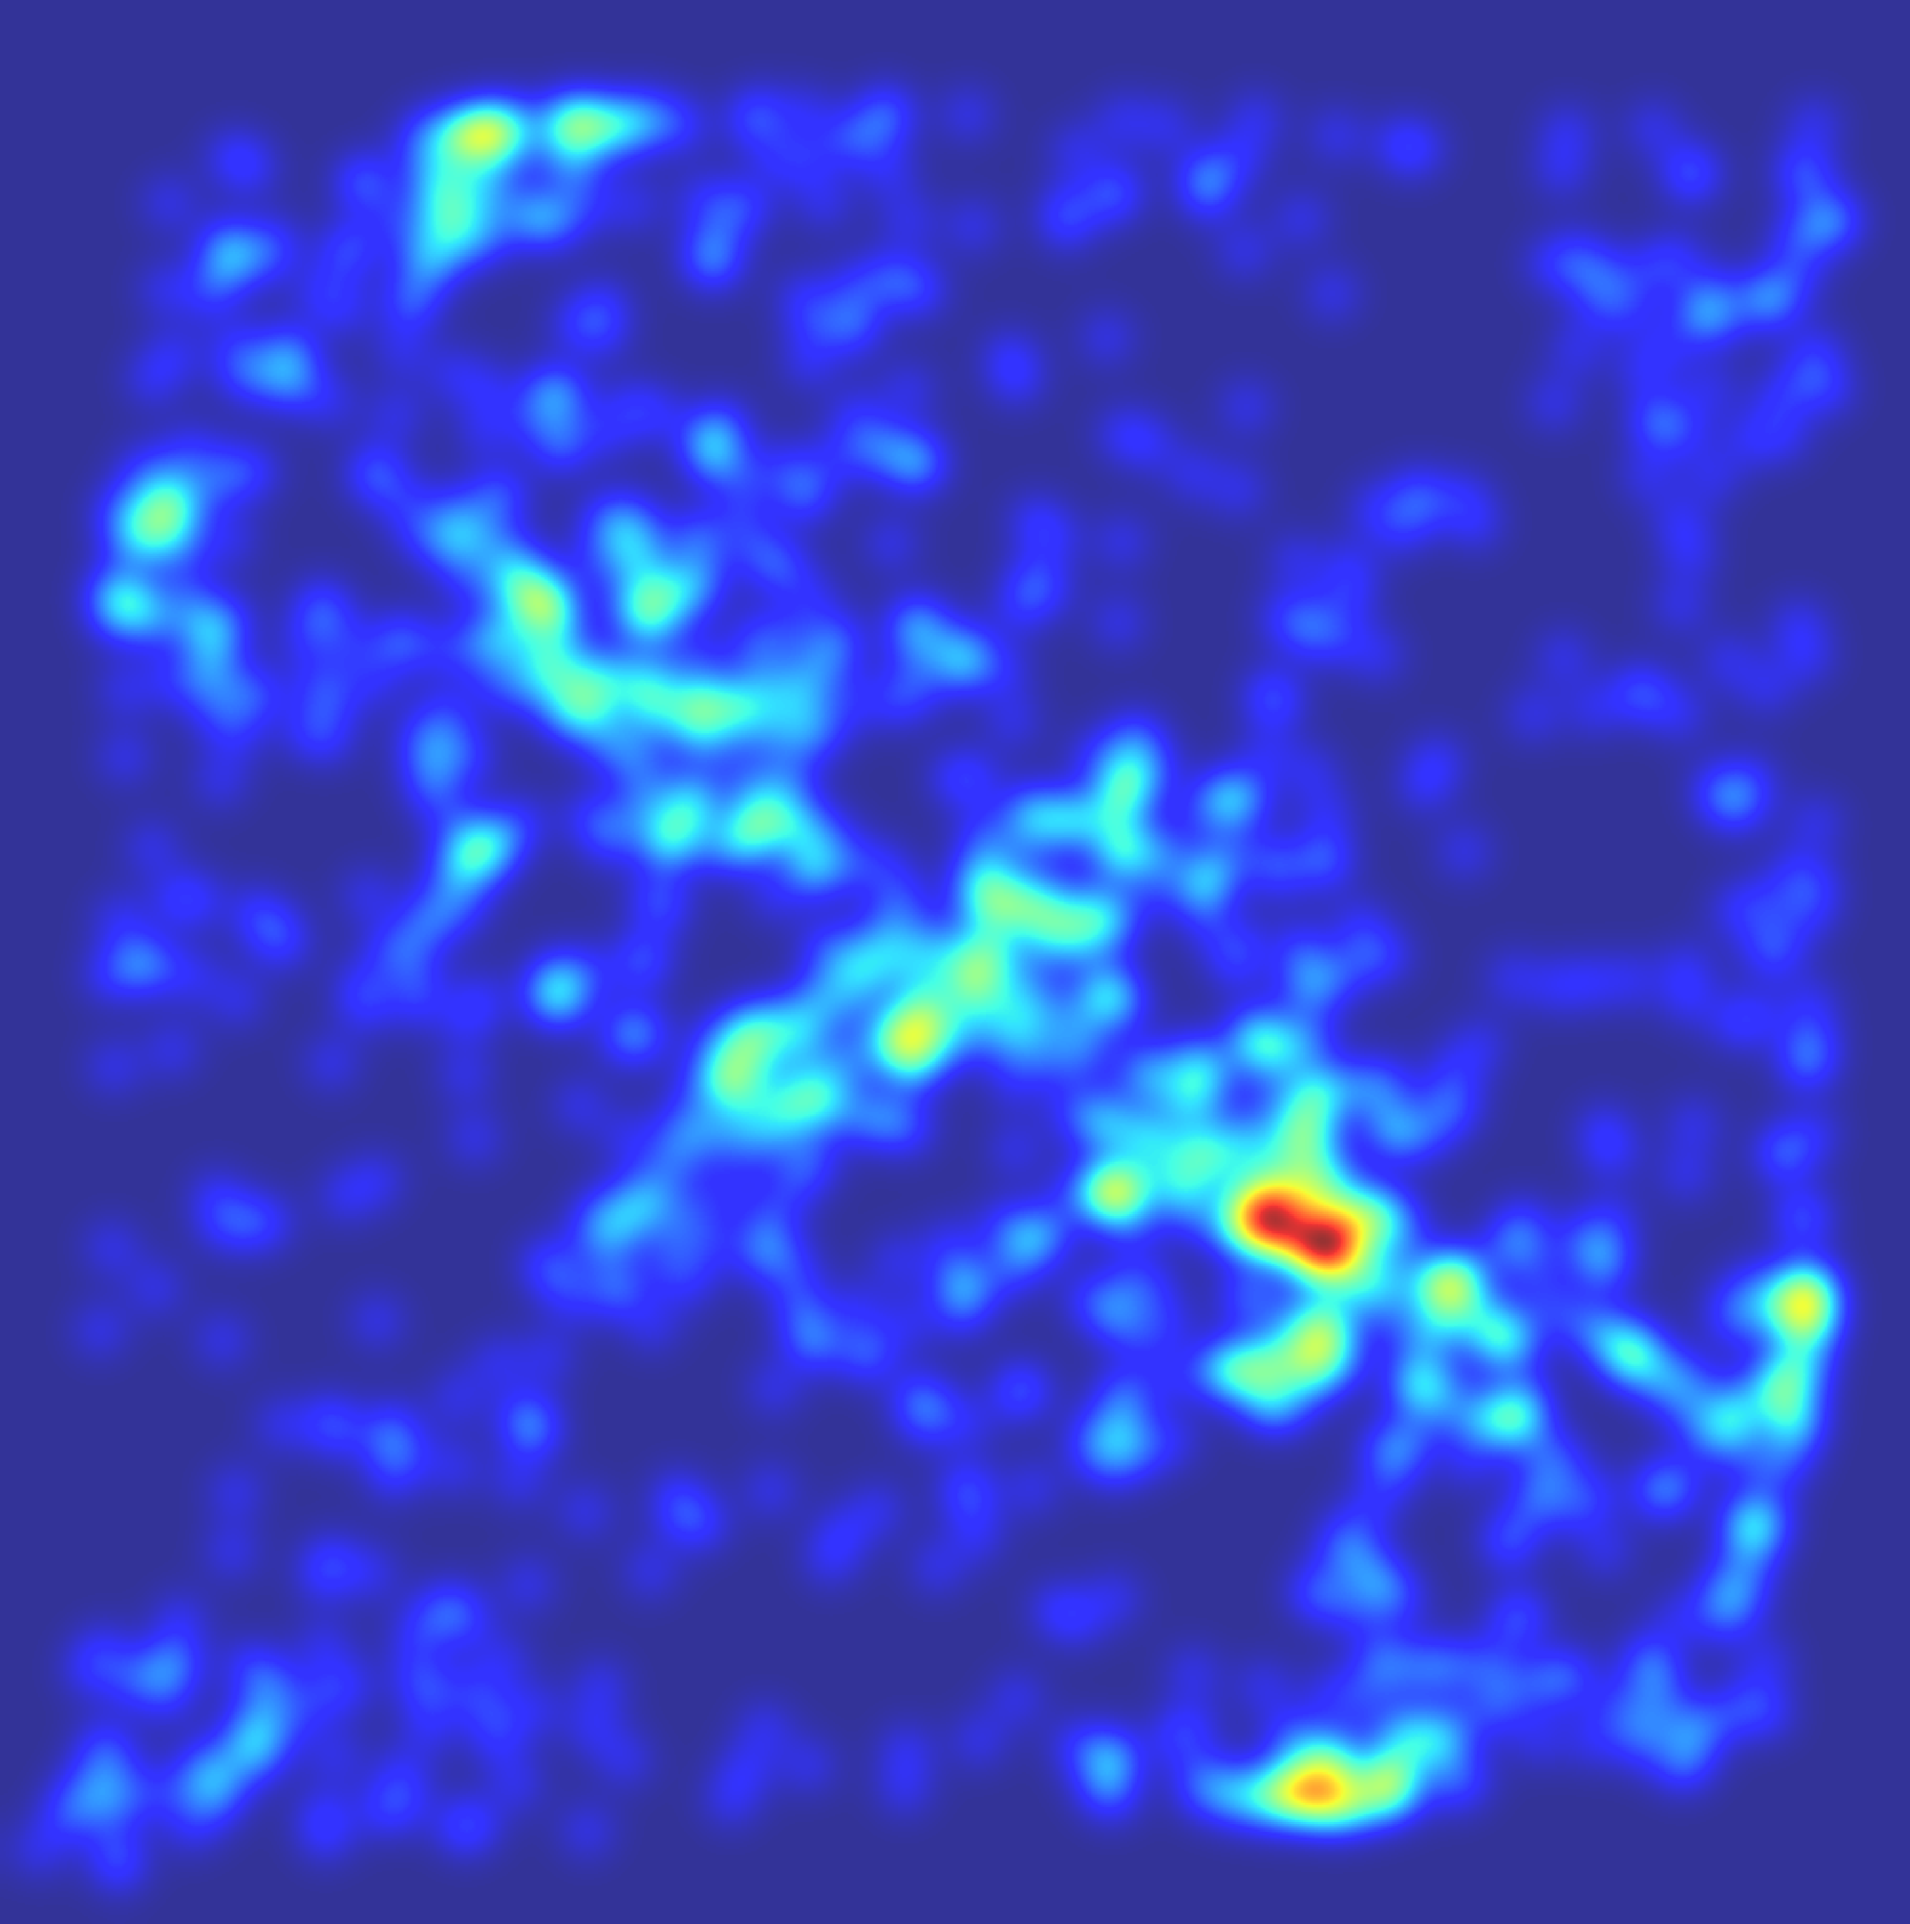
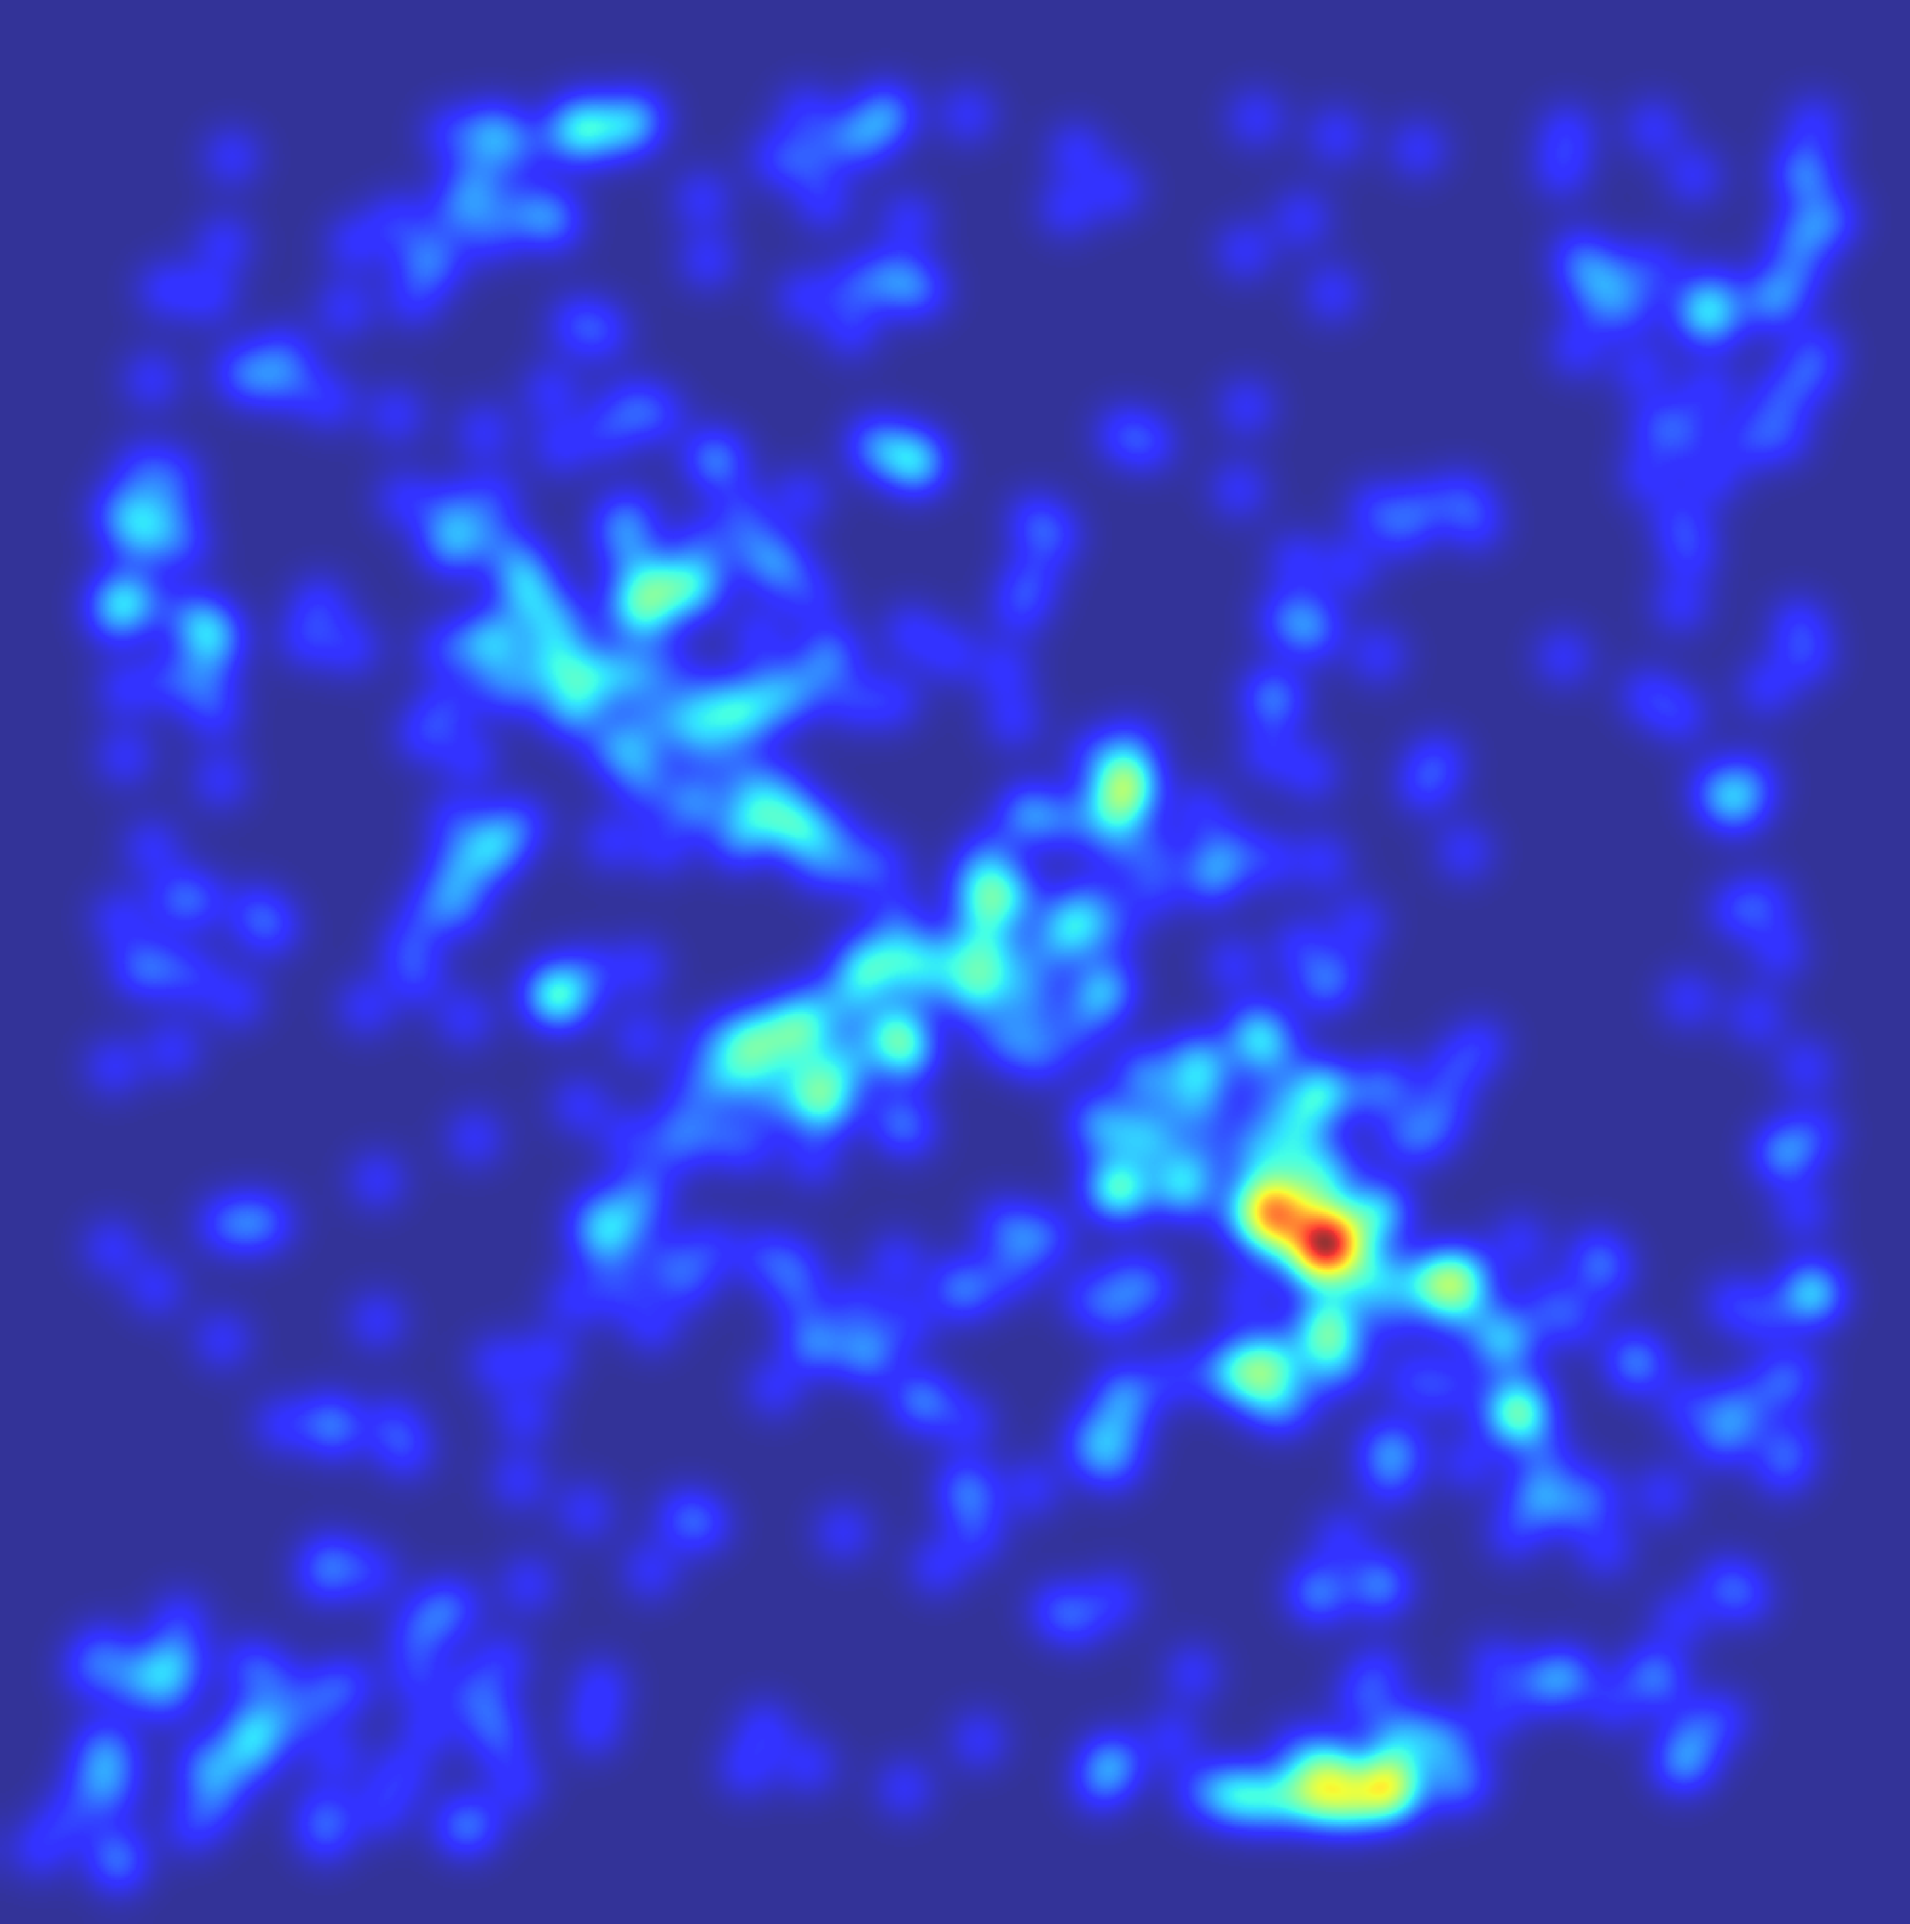
up

diff --git a/streamlit.py b/streamlit.py
@@ -560,7 +560,7 @@ st.set_page_config(layout="wide")
 with st.sidebar.expander("Navigation"):
     # Display checkboxes for options within the expander
 
-    page = st.radio('Choose a page',["Home Page","Draft Stats","Player Focus","Reporting In Game","SoloQ Overview"])
+    page = st.radio('Choose a page',["Home Page","Player Focus","Draft Stats","Team Stats","don't click"])
 
 ################# PAGES ##################################################################################### 
 
@@ -568,7 +568,6 @@ if page == 'Home Page':
     st.markdown(
     """
     <h1 style='text-align: center; color: #f63366;'>Gen.G Reporting</h1>
-    <h4 style='text-align: center; color: #ffffff;'>LIGHT THEME RECOMMENDED</h4>
     <h3 style='text-align: center;'>Running the Rift project made By Gulldiz</h3>
     <hr style='margin-bottom: 20px;'>
     """,
@@ -580,8 +579,19 @@ if page == 'Home Page':
     st.markdown('')
     st.markdown('')
 
-    
-    
+    st.write("I also wanted to let you know that I haven't been able to work properly on the project as this week was the week of preparation of the french Open Tour - I had a lot of work. I'm kinda sad that I couldn't do better and I know there are SO MANY way of improving stats + insights. Lack of time is not a excuse it's my fault on my scheduling.")
+    st.markdown('')
+    st.markdown('')
+    st.markdown('') 
+ 
+    st.write("Improvements I thought about :")
+    st.write("- Compare Player / Team Stats to other LCK teams (Major leagues?)")
+    st.write("- Heatmap by player and by timeline of the game")
+    st.write("- Adding a way to check every single draft one by one")
+    st.write("- SoloQ Tracking")
+    st.write("- Global aesthetic xd")
+    st.write("- Analyzing automatically all stats to create a player profile depending on average stats")
+    st.write("- I'll stop here ^^.")
     st.markdown('')
     st.markdown('')
     st.markdown('')
@@ -646,10 +656,16 @@ elif page == "Draft Stats":
         with col:
             st.write(f"### {player} ")
             st.markdown(win_rates_html, unsafe_allow_html=True)
+    st.markdown("")
+    st.markdown("")
+    st.markdown("")
+    st.markdown("")
+
+    st.markdown(f"<h4 style='text-align: center;'>Priorities Statistics (Picks&Positions)</h4><hr style='margin-top: 20px;'>", unsafe_allow_html=True)
 
     
-    
-    with col_tab1:
+    col1,col2,col3 = st.columns([5,3,2])
+    with col1:
             # get the draft datas
         most_blue_pick_champions, position_b1_pick, position_r3_pick, position_r5_pick, matrix_counts_blue, matrix_counts_red, matrix_percentages_blue, matrix_percentages_red = get_prio_position_draft(df_spring24_geng_draft_scope,'Gen.G')
         # MOST PICKED ??? MOST B1 POSITON ?? 
@@ -665,38 +681,80 @@ elif page == "Draft Stats":
 
         # Concatenate the DataFrames horizontally
         prio_pick = pd.concat([df1_first_five, df2_first_five, df3_first_five], axis=1)
-        st.markdown(f'<h5>TOP 5 PRIO PICKS Advised to choose Split + Playoffs for this table </h5>', unsafe_allow_html = True)
+        st.markdown(f'<h5>Top 5 prio picks. </h5>', unsafe_allow_html = True)
+        st.write('!! Advised to choose Split + Playoffs for this table !!')
         st.write(prio_pick)
 
-    with col_tab3:
-        st.markdown(f'<h5>Matrix Blue</h5>', unsafe_allow_html = True)
+    with col2:
+        st.markdown(f'<h5>Blue Side Position priorities</h5>', unsafe_allow_html = True)
         st.write(matrix_percentages_blue)
-    with col_tab5:
-        st.markdown(f'<h5>Matrix Red</h5>', unsafe_allow_html = True)
+    with col3:
+        st.markdown(f'<h5>Red Side Position priorities</h5>', unsafe_allow_html = True)
         st.write(matrix_percentages_red)
 
-elif page == "Reporting In Game":
+elif page == "Team Stats":
     
-    st.title('Reporting In Game')
-  
-elif page == "SoloQ Overview":
+    df_players_stats = get_games_player_stats(list_game_end_geng_compet,list_players)
+    df_players_stats_scope = df_players_stats[df_players_stats['Player'].isin(list_players)]    
+
+    st.markdown(f"<h2 style='text-align: center;'> Gen.G Stats </h2><hr style='margin-bottom: 20px;'>", unsafe_allow_html=True)
+    col_1,col_2 = st.columns([1,1])
+    with col_1:
+        
+        numeric_columns = df_players_stats.select_dtypes(include=['float64', 'int64']).columns.tolist()
+        selected_columns = st.selectbox('Select a statistic to focus on ', numeric_columns)
+
+        if selected_columns:
+
+            mean_values = df_players_stats_scope.groupby('Player')[selected_columns].mean().sort_values(ascending=False)
+            # Display the mean values
+            st.write(f"Average values for {selected_columns} of Gen.G players:")
+            st.write(mean_values.rename("Average"))
+
+    st.markdown("")
+    st.markdown("")
+    st.markdown("")
+    st.markdown("")
+
+    st.markdown(f"<h2 style='text-align: left;'> Heatmaps </h2><hr style='margin-bottom: 20px;'>", unsafe_allow_html=True)
+    col_tab1,col_tab2,col_tab3,col_tab4 = st.columns([2,2,2,2])
+    with col_tab1:
+        st.markdown(f'<h5>Kills made in 2024 season by Gen.G</h5>', unsafe_allow_html = True)
+
+        st.image('Image\kill_heatmap_team.png', use_column_width=True)
+    with col_tab3:
+        
+        st.markdown(f'<h5>Deaths in 2024 season by Gen.G</h5>', unsafe_allow_html = True)
+        st.image('Image\deaths_heatmap_team.png', use_column_width=True)
+
+    st.markdown('')
+    st.markdown('')
+    st.markdown('')
+    st.markdown('')
+    st.markdown('')
+    st.markdown('')
+    st.write('Heatmaps made automatically with a script')
+    st.write('Note : wrong map version (old one)')
    
-    st.title('Reporting SoloQ')
-    df_spring24_geng_draft = get_spring24_geng_draft()
-    df_players_stats = get_games_player_stats(list_game_end_geng_compet,list_players)  #from list of dict to all GenG players stats only
-    df_events = get_df_event(list_game_timeline_geng_compet)
-    df_events = map_id_to_names(df_events,df_players_stats)
-
-    st.write(df_events)
+elif page == "don't click":
 
 
-    create_heatmap(df_events['x'].tolist(),df_events['y'].tolist(), debug = True)
-    st.write('Good')
+    st.write('nothing to see here get out')
+    #st.title('Reporting SoloQ')
+    # df_spring24_geng_draft = get_spring24_geng_draft()
+    # df_players_stats = get_games_player_stats(list_game_end_geng_compet,list_players)  #from list of dict to all GenG players stats only
+    # df_events = get_df_event(list_game_timeline_geng_compet)
+    # df_events = map_id_to_names(df_events,df_players_stats)
+
+    # st.write(df_events)
+    # df_events_scope = df_events[df_events['assists'].apply(lambda x: x is not None and any(item in x for item in list_players))]
+
+    # df_events_scope
+    #create_heatmap(df_events_scope['x'].tolist(),df_events_scope['y'].tolist(), debug = True)
 
 elif page == "Player Focus":
  
     col_tab1,col_tab2 = st.columns([3,8])
-   
     with col_tab1:
 
         with st.expander("Choose Player", expanded = False):
@@ -709,10 +767,12 @@ elif page == "Player Focus":
     df_players_stats_scope = df_players_stats[df_players_stats['Player'] == player] #focus on choosen player
     
     with col_tab2:
-
+        _,_,col,_,_ = st.columns(5)
         # PLAYER WISE STATS
         df_player, df_player_vision = player_stats(df_players_stats_scope)
-        st.markdown(f"<h2 style='text-align: center;'>{player} Statistics</h2><hr style='margin-bottom: 20px;'>", unsafe_allow_html=True)
+        with col:
+            st.image(f'Image\{player}.png', use_column_width=False, width = 200)
+        st.markdown(f"<hr style='margin-bottom: 20px;'>", unsafe_allow_html=True)
         st.write('Global Statistics')
         st.write(df_player)
         
@@ -721,13 +781,15 @@ elif page == "Player Focus":
 
 
     # CHAMPIONS WISE STATS
-    st.title('Champion Focus')
-    st.write('Champion Statistics')
-    df_player_champion_stats = player_champion_stats(df_players_stats_scope)
-    st.write(df_player_champion_stats)
-    if player in ['GENLehends','GENCanyon']:
-        st.write('Vision Statistics')
-        df_player_vision_stats = player_champion_vision_stats(df_players_stats_scope)
-        st.write(df_player_vision_stats)
-
-    # HEAT MAPS 
+    st.markdown(f"<h2 style='text-align: leftr;'>Champion Focus</h2><hr style='margin-top: 20px;'>", unsafe_allow_html=True)
+    col1,col2 = st.columns(2)
+    
+    with col1:
+        st.write('Champion Statistics')
+        df_player_champion_stats = player_champion_stats(df_players_stats_scope)
+        st.write(df_player_champion_stats)
+        if player in ['GENLehends','GENCanyon']:
+            with col2:
+                st.write('Vision Statistics')
+                df_player_vision_stats = player_champion_vision_stats(df_players_stats_scope)
+                st.write(df_player_vision_stats)
